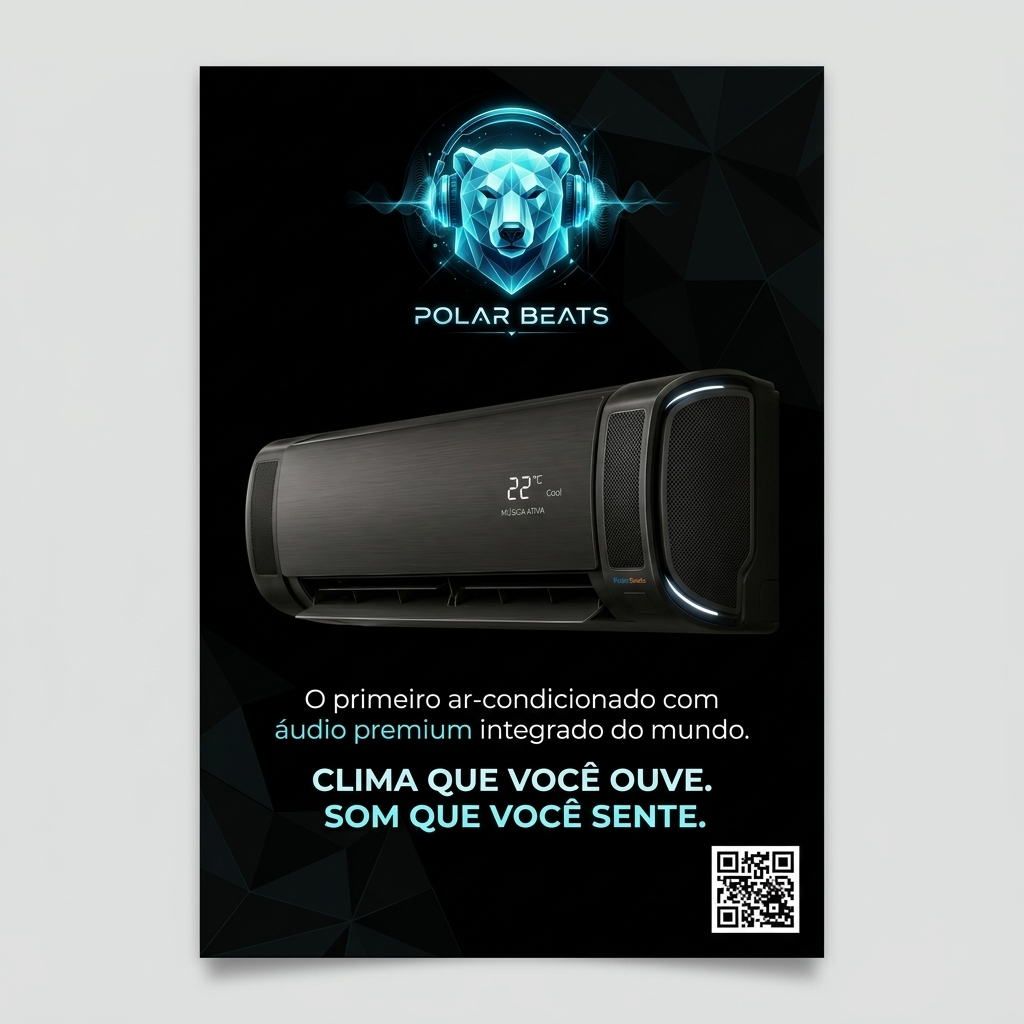
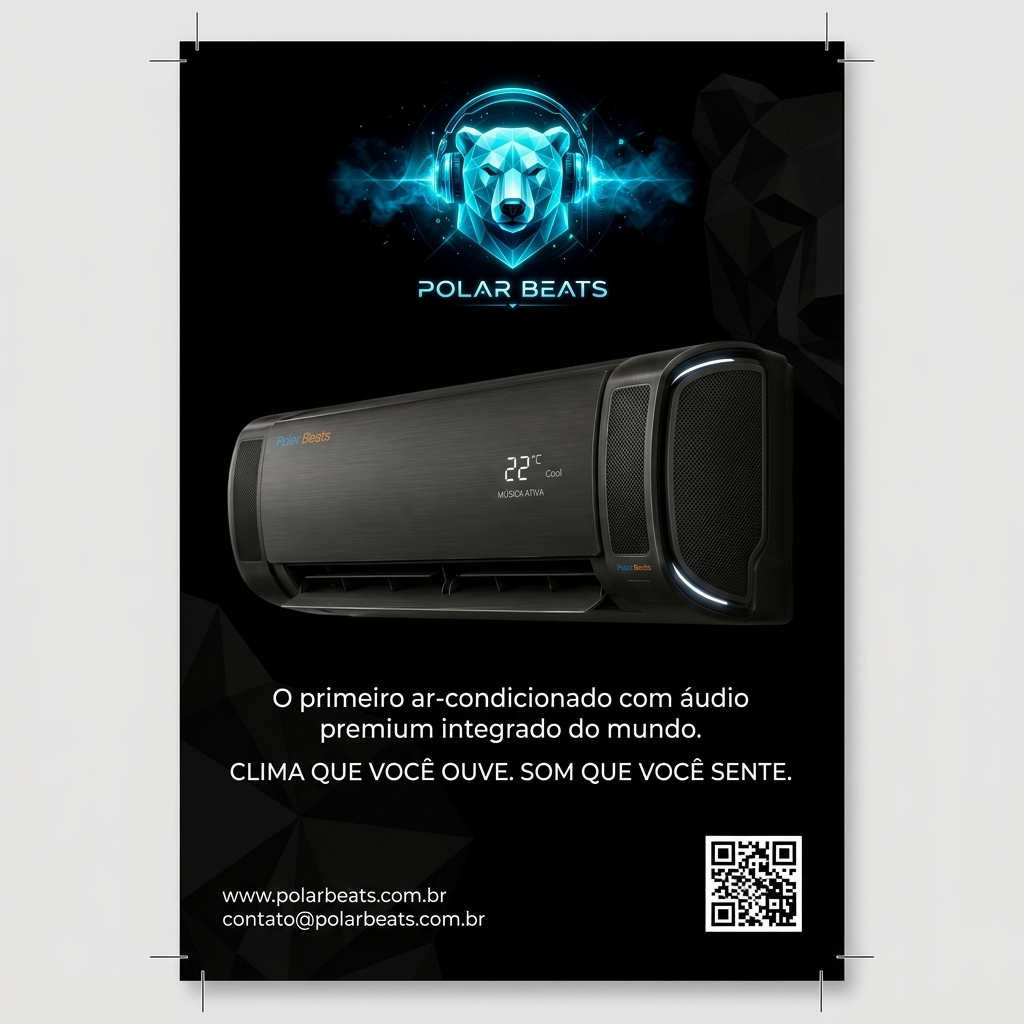
🚀 Update flyer (HTML & image) footer with site URL and business email

Changed region(s): [[0.1562, 0.0312, 0.8438, 0.9688], [0.4688, 0.4375, 0.5312, 0.5]]

diff --git a/folheto.html b/folheto.html
@@ -333,8 +333,8 @@
       <div class="footer-left">
         <span class="cta-text">Descubra o Futuro do Conforto.</span>
         <div class="contact-info">
-          <p><strong>polarbeats.com.br</strong> · @polarbeatsoficial</p>
-          <p>Patente INPI BR 202023011705-3</p>
+          <p><strong>www.polarbeats.com.br</strong> · contato@polarbeats.com.br</p>
+          <p>Instagram: @polarbeatsoficial · Patente BR 202023011705-3</p>
         </div>
       </div>
 
